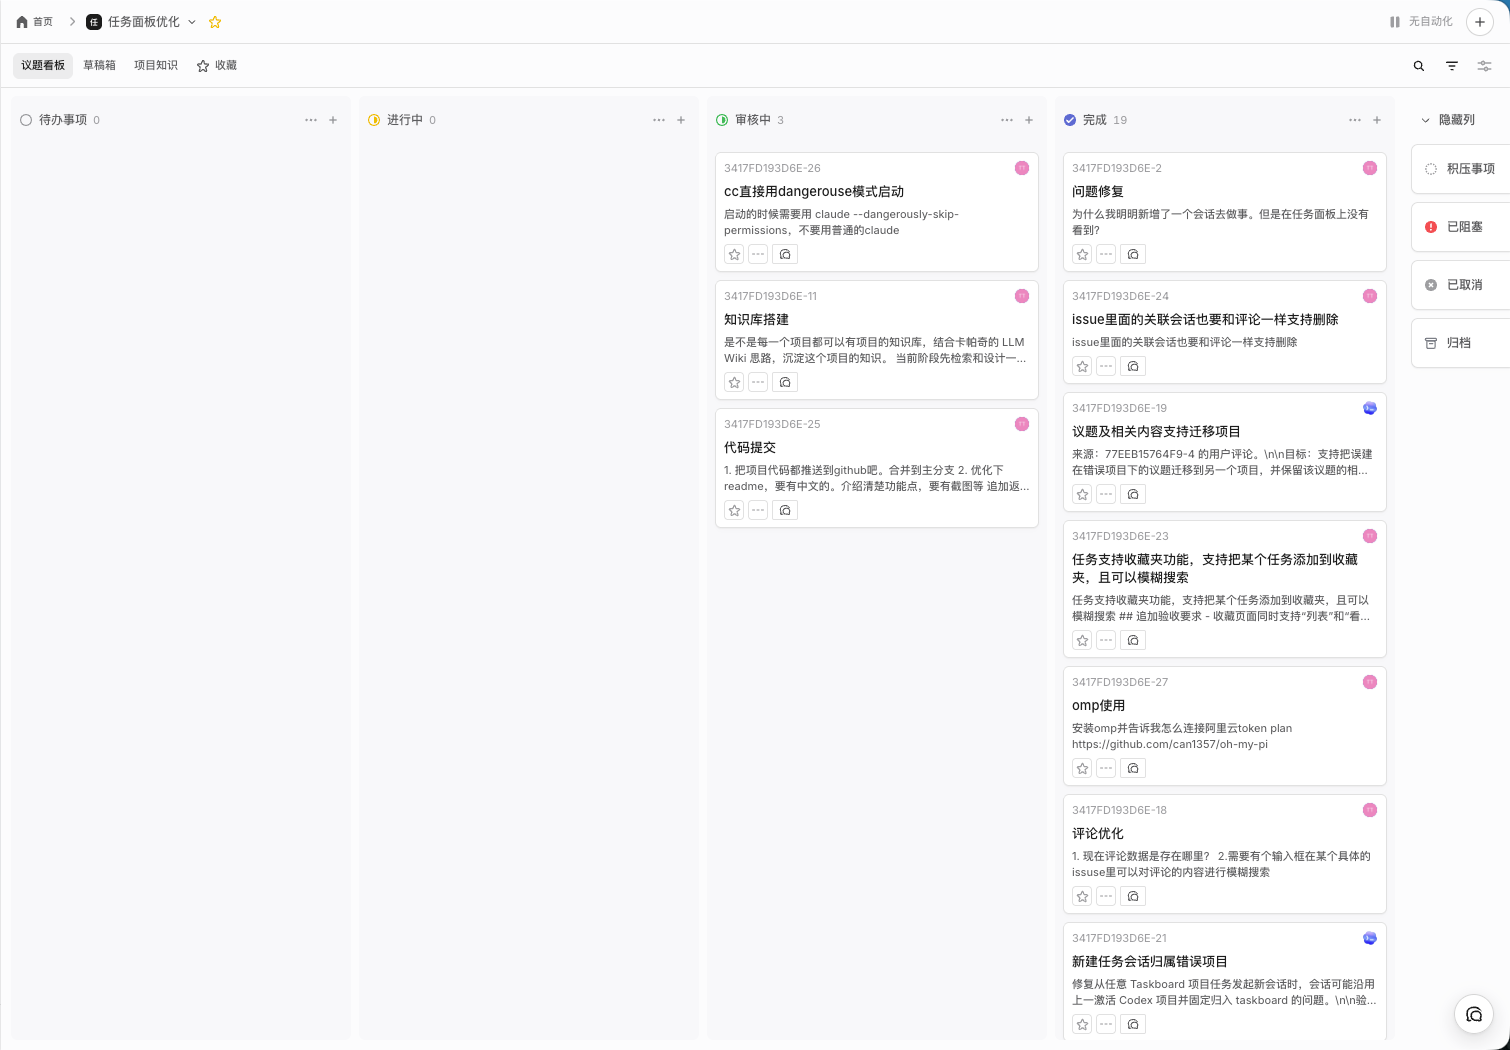
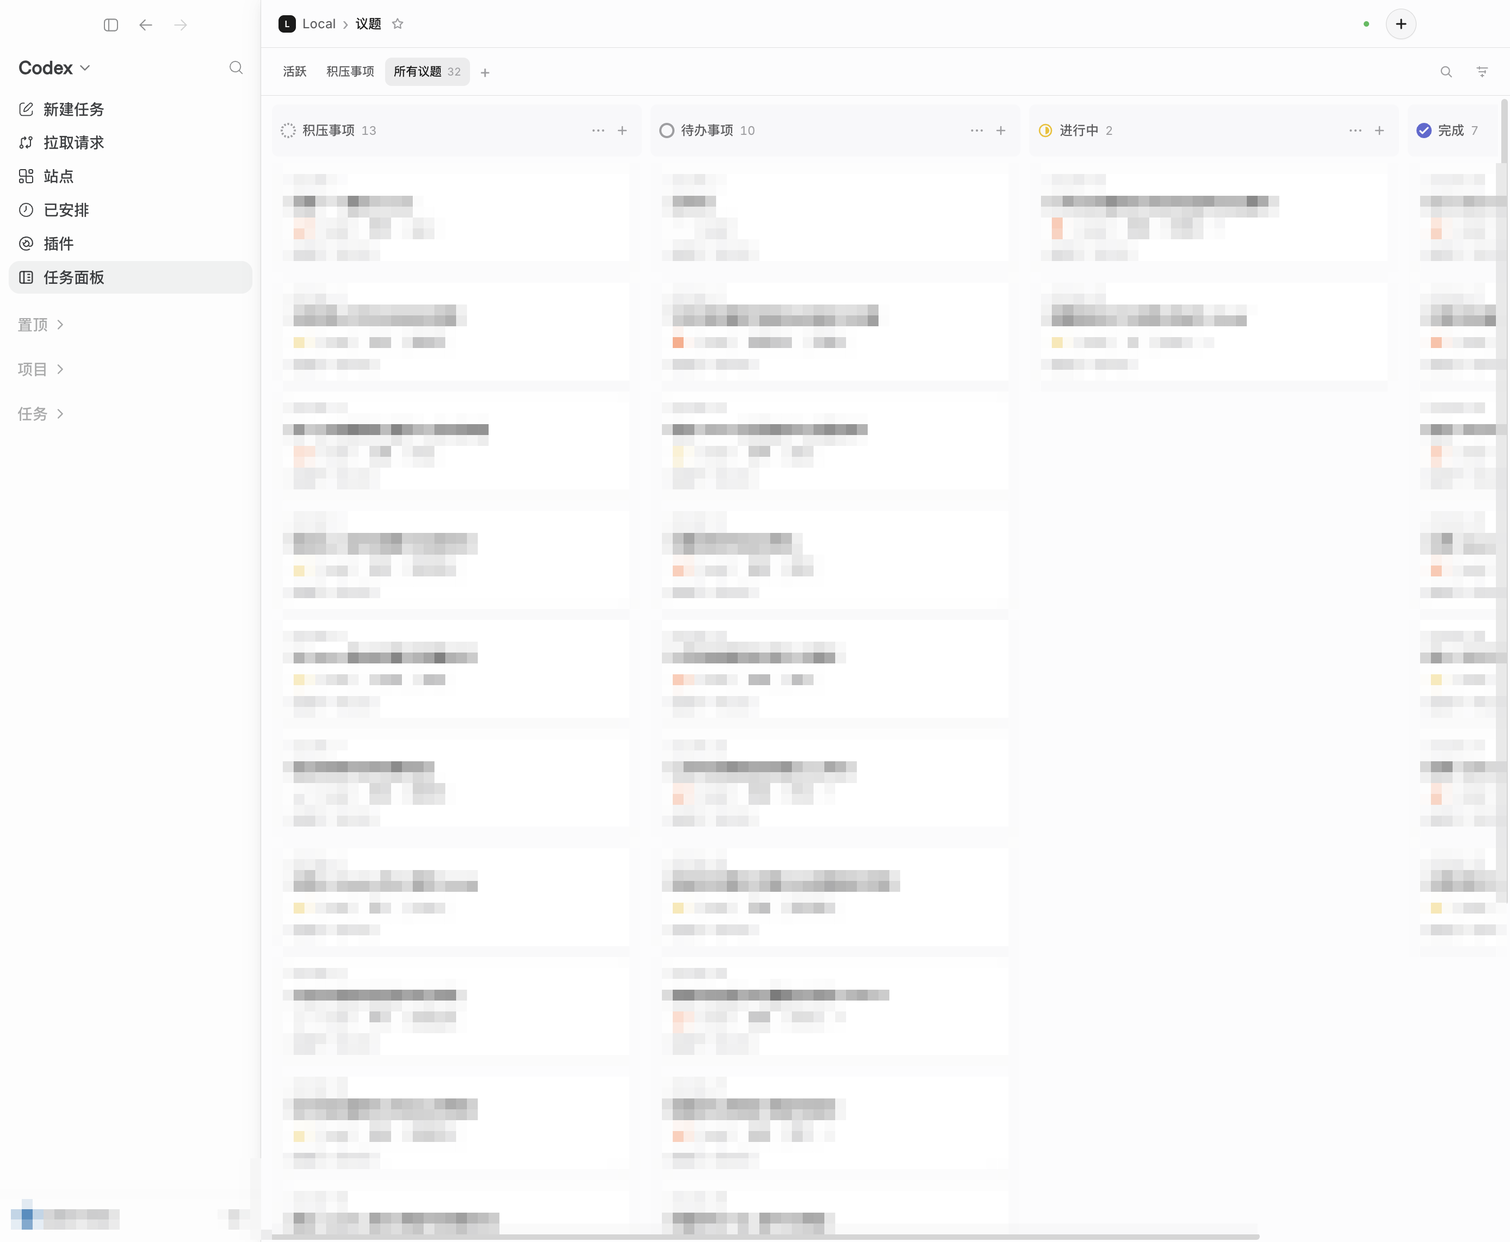
docs: use real redacted screenshots in README

diff --git a/README.md b/README.md
@@ -100,44 +100,37 @@ Taskboard can turn issue discussions, comments, and implementation evidence into
 
 ## Preview
 
-<table>
-  <tr>
-    <td width="50%">
-      <strong>Project management</strong><br>
-      Save local projects, group active work, favorite important projects, archive completed ones, and open a global task view.<br><br>
-      <img src="docs/screenshots/project-management.png" alt="Project management">
-    </td>
-    <td width="50%">
-      <strong>Task-state board</strong><br>
-      Keep work visible across backlog, todo, in progress, review, done, blocked, canceled, and archived states.<br><br>
-      <img src="docs/screenshots/task-state-board.png" alt="Task-state board">
-    </td>
-  </tr>
-  <tr>
-    <td width="50%">
-      <strong>Favorites</strong><br>
-      Collect urgent review items and follow-ups across projects into one focused view.<br><br>
-      <img src="docs/screenshots/favorites.png" alt="Favorites">
-    </td>
-    <td width="50%">
-      <strong>Embedded in Codex</strong><br>
-      Create sessions from issues inside Codex so the task state and execution context stay linked.<br><br>
-      <img src="docs/screenshots/codex-new-session.png" alt="Embedded in Codex">
-    </td>
-  </tr>
-  <tr>
-    <td width="50%">
-      <strong>Review comments and runtime sessions</strong><br>
-      Keep review feedback on the issue and launch Codex, Claude Code, or OMP follow-up sessions from the same comment.<br><br>
-      <img src="docs/screenshots/comment-feedback-and-sessions.png" alt="Review comments and runtime sessions">
-    </td>
-    <td width="50%">
-      <strong>Project knowledge center</strong><br>
-      Convert decisions, evidence, and implementation notes into reviewable local knowledge pages.<br><br>
-      <img src="docs/screenshots/knowledge-base.png" alt="Project knowledge center">
-    </td>
-  </tr>
-</table>
+The screenshots below come from the real local UI. Task titles, comments, names, and other sensitive content are pixelated; the interface itself is not redrawn or fabricated.
+
+### Task-state board
+
+View the same local Taskboard inside the Codex embedded panel. Issues are grouped by status, and cards keep priority, labels, and creation context visible for quick triage.
+
+![Real task-state board with sensitive issue content pixelated](docs/screenshots/task-state-board.png)
+
+### Standalone web board
+
+Taskboard also runs as a normal web app. Without the Codex desktop app, projects, issues, comments, attachments, project knowledge, and CLI automation still work.
+
+![Standalone web board with sensitive issue content pixelated](docs/screenshots/standalone-board.png)
+
+### Create an issue
+
+When creating an issue, you can fill in the title, description, status, priority, labels, and optional Codex task ID so execution context is attached from the beginning.
+
+![Create issue dialog with sensitive background content pixelated](docs/screenshots/create-issue.png)
+
+### Issue detail
+
+The issue detail page centralizes description, activity, comments, properties, status, priority, labels, and project context. Agent results, evidence, and follow-up instructions are written back here.
+
+![Issue detail page with sensitive content pixelated](docs/screenshots/task-detail.png)
+
+### Issue detail inside Codex
+
+When embedded in Codex, task state and execution context stay in the same work window, making it easier to start follow-up sessions from an issue or comment.
+
+![Issue detail embedded in Codex with sensitive content pixelated](docs/screenshots/embedded-issue-detail.png)
 
 ## How it works
 

diff --git a/README_ZH.md b/README_ZH.md
@@ -100,44 +100,37 @@ Taskboard 可以把 Issue 讨论、评论、实现证据整理成项目知识提
 
 ## 界面预览
 
-<table>
-  <tr>
-    <td width="50%">
-      <strong>项目管理</strong><br>
-      保存多个本地项目，支持项目分组、收藏、归档和全局任务视图。<br><br>
-      <img src="docs/screenshots/project-management.png" alt="项目管理">
-    </td>
-    <td width="50%">
-      <strong>任务状态看板</strong><br>
-      按状态组织积压、待办、进行中、评审、完成、阻塞、取消和归档任务。<br><br>
-      <img src="docs/screenshots/task-state-board.png" alt="任务状态看板">
-    </td>
-  </tr>
-  <tr>
-    <td width="50%">
-      <strong>收藏视图</strong><br>
-      把跨项目的重要任务收拢到一个聚焦视图，避免评审项和后续跟进散落。<br><br>
-      <img src="docs/screenshots/favorites.png" alt="收藏视图">
-    </td>
-    <td width="50%">
-      <strong>Codex 内嵌</strong><br>
-      在 Codex 中直接从任务创建会话，让任务状态和执行上下文保持绑定。<br><br>
-      <img src="docs/screenshots/codex-new-session.png" alt="Codex 内嵌">
-    </td>
-  </tr>
-  <tr>
-    <td width="50%">
-      <strong>评审评论与多运行时会话</strong><br>
-      评论里保留真实评审反馈，并从同一条评论继续创建 Codex、Claude Code 或 OMP 会话。<br><br>
-      <img src="docs/screenshots/comment-feedback-and-sessions.png" alt="评审评论与会话">
-    </td>
-    <td width="50%">
-      <strong>项目知识中心</strong><br>
-      将任务过程中的判断、证据和实现说明沉淀为可审核的项目知识。<br><br>
-      <img src="docs/screenshots/knowledge-base.png" alt="项目知识中心">
-    </td>
-  </tr>
-</table>
+下面的截图来自真实本地界面；任务标题、评论、人名等敏感内容已做像素化处理，没有重绘或伪造 UI。
+
+### 任务状态看板
+
+在 Codex 内嵌面板里查看同一个本地 Taskboard。任务按状态分列，Issue 卡片保留优先级、标签和创建信息，适合快速判断哪些任务正在推进、哪些需要评审。
+
+![真实任务状态看板，敏感任务内容已打码](docs/screenshots/task-state-board.png)
+
+### 独立 Web 看板
+
+Taskboard 也可以作为普通 Web 应用运行。没有 Codex 桌面端时，项目、Issue、评论、附件、项目知识和 CLI 自动化仍然可用。
+
+![独立 Web 看板，敏感任务内容已打码](docs/screenshots/standalone-board.png)
+
+### 新建 Issue
+
+新建任务时可以直接填写标题、描述、状态、优先级、标签，并关联 Codex task ID。这样任务一开始就带着执行上下文。
+
+![新建 Issue 弹窗，背景敏感内容已打码](docs/screenshots/create-issue.png)
+
+### Issue 详情
+
+Issue 详情页集中展示描述、活动、评论、属性、状态、优先级、标签和项目上下文。Agent 执行后的结论、证据和后续要求也会回写到这里。
+
+![Issue 详情页，敏感内容已打码](docs/screenshots/task-detail.png)
+
+### Codex 内的 Issue 详情
+
+嵌入 Codex 后，任务状态和当前执行上下文可以放在同一个工作窗口里，方便从 Issue 或评论继续创建后续会话。
+
+![Codex 内嵌 Issue 详情，敏感内容已打码](docs/screenshots/embedded-issue-detail.png)
 
 ## 工作方式
 
